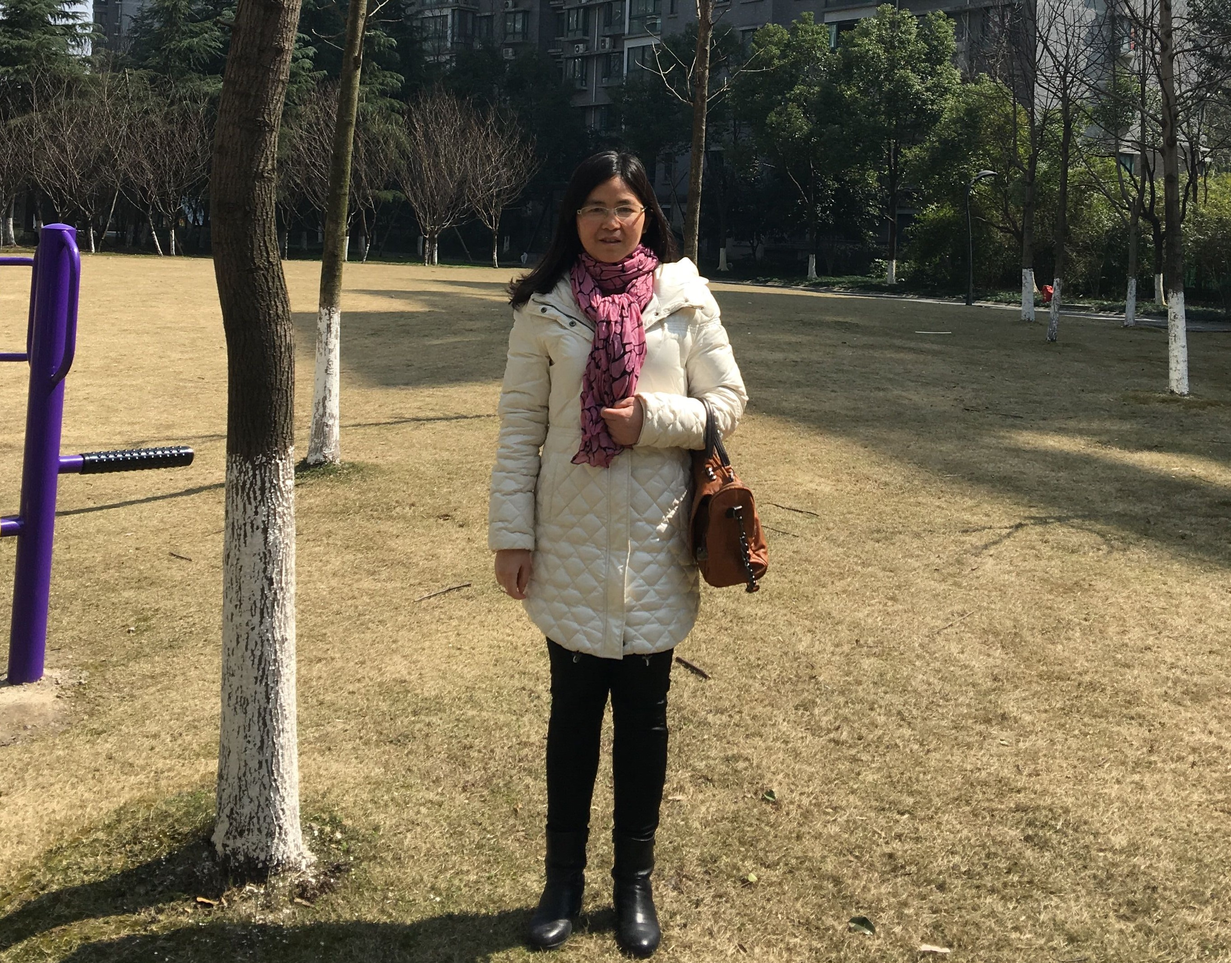
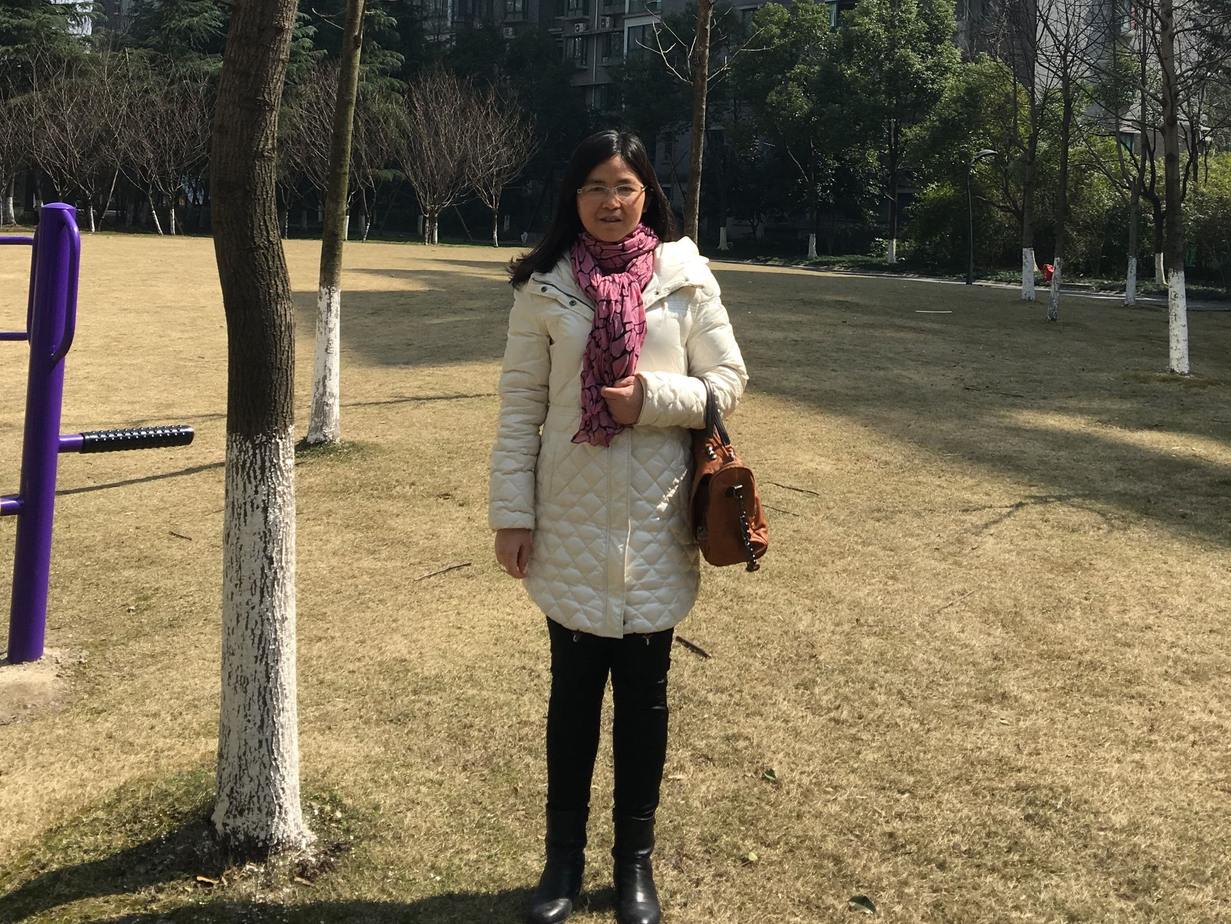
修改了主页的内容并修改了导师信息的图像大小

diff --git a/index.html b/index.html
@@ -78,7 +78,7 @@
           </div>
         </div>
         <div class="row text-center">
-          <div class="col-md-4">
+          <div class="col-md-3">
             <span class="fa-stack fa-4x">
               <i class="fa fa-circle fa-stack-2x text-primary"></i>
               <i class="fa fa-code-fork fa-stack-1x fa-inverse"></i>
@@ -86,7 +86,7 @@
             <h4 class="service-heading">物联网</h4>
             <p class="text-muted">物联网(Internet of Things)是一个基于互联网、传统电信网等信息承载体，让所有能够被独立寻址的普通物理对象实现互联互通的网络。</p>
           </div>
-          <div class="col-md-4">
+          <div class="col-md-3">
             <span class="fa-stack fa-4x">
               <i class="fa fa-circle fa-stack-2x text-primary"></i>
               <i class="fa fa-microchip fa-stack-1x fa-inverse"></i>
@@ -94,7 +94,7 @@
             <h4 class="service-heading">嵌入式</h4>
             <p class="text-muted">嵌入式技术是一种以应用为中心，以计算机技术为基础，并且软硬件可裁剪，适用于应用系统对功能、可靠性、成本、体积、功耗有严格要求的专用计算机系统技术。</p>
           </div>
-          <div class="col-md-4">
+          <div class="col-md-3">
             <span class="fa-stack fa-4x">
               <i class="fa fa-circle fa-stack-2x text-primary"></i>
               <i class="fa fa-server fa-stack-1x fa-inverse"></i>
@@ -102,7 +102,7 @@
             <h4 class="service-heading">城市计算</h4>
             <p class="text-muted">城市计算是计算机科学中以城市为背景，与城市规划、交通、能源、环境、社会学和经济等学科融合的新兴领域。通过不断获取、整合和分析城市中多种异构大数据来解决城市所面临的挑战。</p>
           </div>
-          <div class="col-md-4">
+          <div class="col-md-3">
             <span class="fa-stack fa-4x">
               <i class="fa fa-circle fa-stack-2x text-primary"></i>
               <i class="fa fa-image fa-stack-1x fa-inverse"></i>
@@ -228,33 +228,19 @@
             <ul class="timeline">
               <li>
                 <div class="timeline-image">
-                  <img class="rounded-circle img-fluid" src="img/about/mobihoc20151.png" alt="">
+                  <img class="rounded-circle img-fluid" src="img/about/20170725_shaojie1.jpg" alt="">
                 </div>
                 <div class="timeline-panel">
                   <div class="timeline-heading">
-                    <h4>Jun. 2015</h4>
-                    <h4 class="subheading">MobiHoc 2015 in Hangzhou, China</h4>
+                    <h4>Jul. 2017</h4>
+                    <h4 class="subheading">Dr. Shaojie Tang visited our group</h4>
                   </div>
                   <div class="timeline-body">
-                    <p class="text-muted">Lorem ipsum dolor sit amet, consectetur adipisicing elit. Sunt ut voluptatum eius sapiente, totam reiciendis temporibus qui quibusdam, recusandae sit vero unde, sed, incidunt et ea quo dolore laudantium consectetur!</p>
+                    <p class="text-muted">Dr. Shaojie Tang from Naveen Jindal School of Management at University of Texas at Dallas visited our group and gave a talk titled "Order Matters: Robust Advertising with Uncertain Parameters."</p>
                   </div>
                 </div>
               </li>
               <li class="timeline-inverted">
-                <div class="timeline-image">
-                  <img class="rounded-circle img-fluid" src="img/about/ipccc2015-2.jpg" alt="">
-                </div>
-                <div class="timeline-panel">
-                  <div class="timeline-heading">
-                    <h4>Dec. 2015</h4>
-                    <h4 class="subheading">IPCCC 2015 in Nanjing, China</h4>
-                  </div>
-                  <div class="timeline-body">
-                    <p class="text-muted">Lorem ipsum dolor sit amet, consectetur adipisicing elit. Sunt ut voluptatum eius sapiente, totam reiciendis temporibus qui quibusdam, recusandae sit vero unde, sed, incidunt et ea quo dolore laudantium consectetur!</p>
-                  </div>
-                </div>
-              </li>
-              <li>
                 <div class="timeline-image">
                   <img class="rounded-circle img-fluid" src="img/about/SECON20172.jpg" alt="">
                 </div>
@@ -264,35 +250,50 @@
                     <h4 class="subheading">SECON 2017 in San Diego, USA</h4>
                   </div>
                   <div class="timeline-body">
-                    <p class="text-muted">Lorem ipsum dolor sit amet, consectetur adipisicing elit. Sunt ut voluptatum eius sapiente, totam reiciendis temporibus qui quibusdam, recusandae sit vero unde, sed, incidunt et ea quo dolore laudantium consectetur!</p>
+                    <p class="text-muted">We attended the SECON 2017 (Jun.12 - 14) held in San Diego, USA, Dr. Jianhui Zhang reported our recent work titled "Composite Task Selection with Heterogeneous Crowdsourcing".</p>
                   </div>
                 </div>
               </li>
-              <li class="timeline-inverted">
+              <li>
                 <div class="timeline-image">
-                  <img class="rounded-circle img-fluid" src="img/about/20170725_shaojie1.jpg" alt="">
+                  <img class="rounded-circle img-fluid" src="img/about/ipccc2015-2.jpg" alt="">
                 </div>
                 <div class="timeline-panel">
                   <div class="timeline-heading">
-                    <h4>Jul. 2017</h4>
-                    <h4 class="subheading">Dr. Shaojie Tang visited our group</h4>
+                    <h4>Dec. 2015</h4>
+                    <h4 class="subheading">IPCCC 2015 in Nanjing, China</h4>
                   </div>
                   <div class="timeline-body">
-                    <p class="text-muted">Lorem ipsum dolor sit amet, consectetur adipisicing elit. Sunt ut voluptatum eius sapiente, totam reiciendis temporibus qui quibusdam, recusandae sit vero unde, sed, incidunt et ea quo dolore laudantium consectetur!</p>
+                    <p class="text-muted">We attended the IPCCC 2015 (Dec.14 - 16) held in Nanjing, China, Zhi Li reported our recent work titled "Stochastic Duty Cycling for Heterogenous Energy Harvesting Networks".</p>
                   </div>
                 </div>
               </li>
               <li class="timeline-inverted">
                 <div class="timeline-image">
+                  <img class="rounded-circle img-fluid" src="img/about/mobihoc20151.png" alt="">
+                </div>
+                <div class="timeline-panel">
+                  <div class="timeline-heading">
+                    <h4>Jun. 2015</h4>
+                    <h4 class="subheading">MobiHoc 2015 in Hangzhou, China</h4>
+                  </div>
+                  <div class="timeline-body">
+                    <p class="text-muted">We attended the MobiHoc 2015 (Jun.22 - 25) held in Hangzhou, China.</p>
+                  </div>
+                </div>
+              </li>
+              <li>
+                <div class="timeline-image">
                   <img class="rounded-circle img-fluid" src="img/about/20170725_shaojie1.jpg" alt="">
                 </div>
                 <div class="timeline-panel">
                   <div class="timeline-heading">
-                    <h4>Aug. 2017</h4>
+                    <!-- <h4>Aug. 2017</h4> -->
                     <h4 class="subheading">Group Activity</h4>
                   </div>
                   <div class="timeline-body">
-                    <p class="text-muted">Lorem ipsum dolor sit amet, consectetur adipisicing elit. Sunt ut voluptatum eius sapiente, totam reiciendis temporibus qui quibusdam, recusandae sit vero unde, sed, incidunt et ea quo dolore laudantium consectetur!</p>
+                    <p class="text-muted">Lorem ipsum dolor sit amet, consectetur adipisicing elit. Sunt ut voluptatum eius sapiente, totam reiciendis
+                      temporibus qui quibusdam, recusandae sit vero unde, sed, incidunt et ea quo dolore laudantium consectetur!</p>
                   </div>
                 </div>
               </li>
@@ -427,9 +428,66 @@
         </div>
       </div>
     </section> -->
+    
+    <section id="contact">
+      <div class="container">
+        <div class="row">
+          <div class="col-lg-12 text-center">
+            <h2 class="section-heading text-uppercase">联系我们</h2>
+            <h3 class="section-subheading text-muted">Contact Us</h3>
+          </div>
+        </div>
+        <div class="row">
+          <div class="col-lg-4"></div>
+          <div class="col-lg-2 col-sm-6 text-left">
+            <p>
+              <font color="white">2018招生群：</font>
+            </p>
+          </div>
+          <div class="col-lg-3 col-sm-6 text-left">
+            <p>
+              <font color="white">1234567890</font>
+            </p>
+          </div>
+        </div>
+        <div class="row">
+          <div class="col-lg-4"></div>          
+          <div class="col-lg-2 col-sm-6 text-left">
+            <p>
+              <font color="white">联系邮箱：</font>
+            </p>
+          </div>
+          <div class="col-lg-3 col-sm-6 text-left">
+            <p>
+              <font color="white">jhzhang@hdu.edu.cn</font>
+            </p>
+          </div>
+        </div>
+        <div class="row">
+            <div class="col-lg-4"></div>          
+            <div class="col-lg-2 col-sm-6 text-left">
+              <p>
+                <font color="white">邮件内容：</font>
+              </p>
+            </div>
+            <div class="col-lg-3 col-sm-6 text-left">
+              <p>
+                <font color="white">个人简历，包括个人基本信息、联系电话、考研成绩
+                    （包括各单科成绩）、 是否第一志愿</font>
+              </p>
+            </div>
+            <div class="col-lg-12 col-sm-12 col-md-12 text-center">
+              <p>
+                <font color="white">扫描二维码，加入群</font>
+              </p>
+              <img src="img/portfolio/02-thumbnail.jpg" class="img-responsive center-block" alt=""> 
+            </div>
+          </div>
+      </div>
+    </section>
 
     <!-- Contact -->
-    <section id="contact">
+    <!-- <section id="contact">
       <div class="container">
         <div class="row">
           <div class="col-lg-12 text-center">
@@ -471,7 +529,7 @@
           </div>
         </div>
       </div>
-    </section>
+    </section> -->
 
     <!-- Footer -->
     <footer>
@@ -539,7 +597,7 @@
                     国际著名会议 IEEE INFOCOM， IEEE GlobeCom， IEEE IPCCC 的 TPC， IEEE SECON,
                     有广泛的国内外合作与交流。
                     <br>研究方向： <b>群智计算、 无线网络、 物联网、 无线传感网、 算法设计与分析</b>
-                    <br><a href="www.jhzhang.cn">个人主页</a></p>
+                    <br><a href="http://www.jhzhang.cn" target="_blank">个人主页</a></p>
                   <!-- <ul class="list-inline">
                     <li>Date: January 2017</li>
                     <li>Client: Threads</li>
